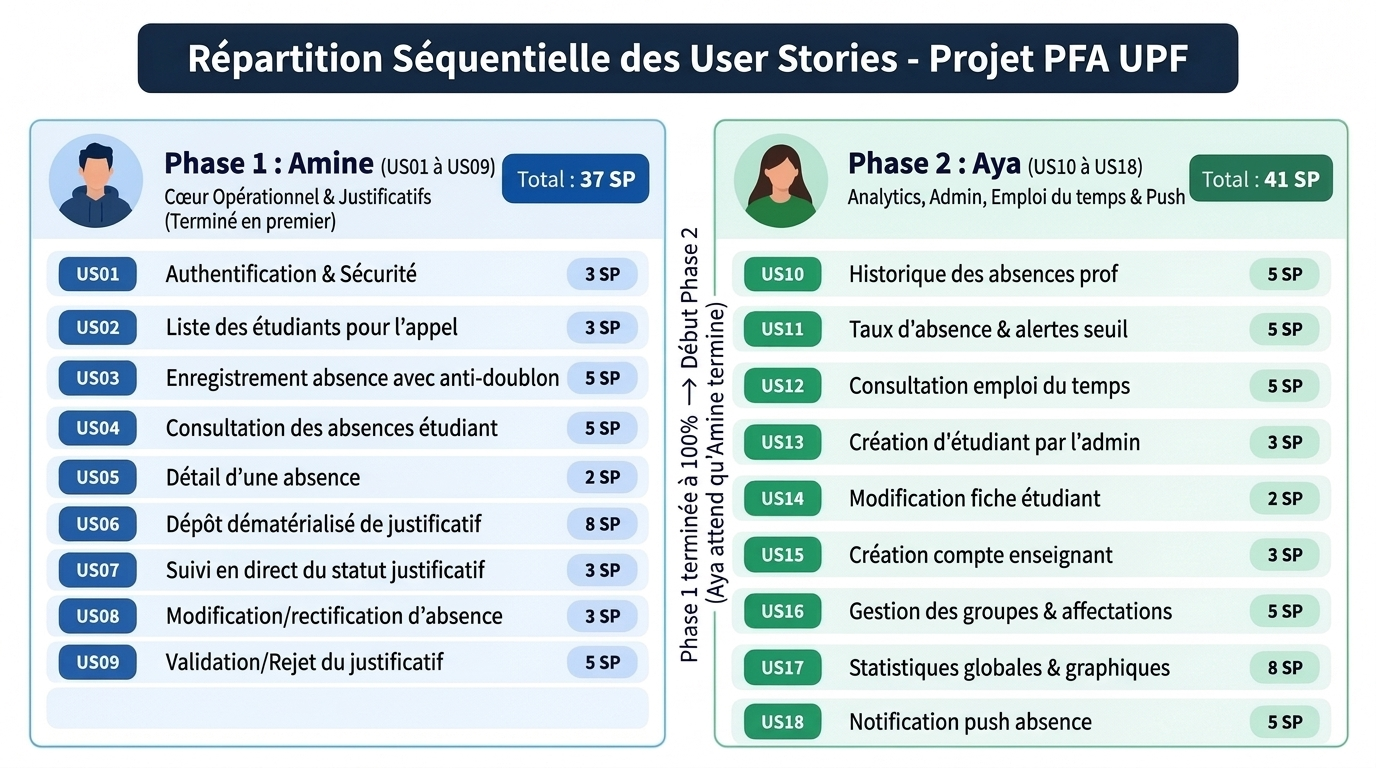
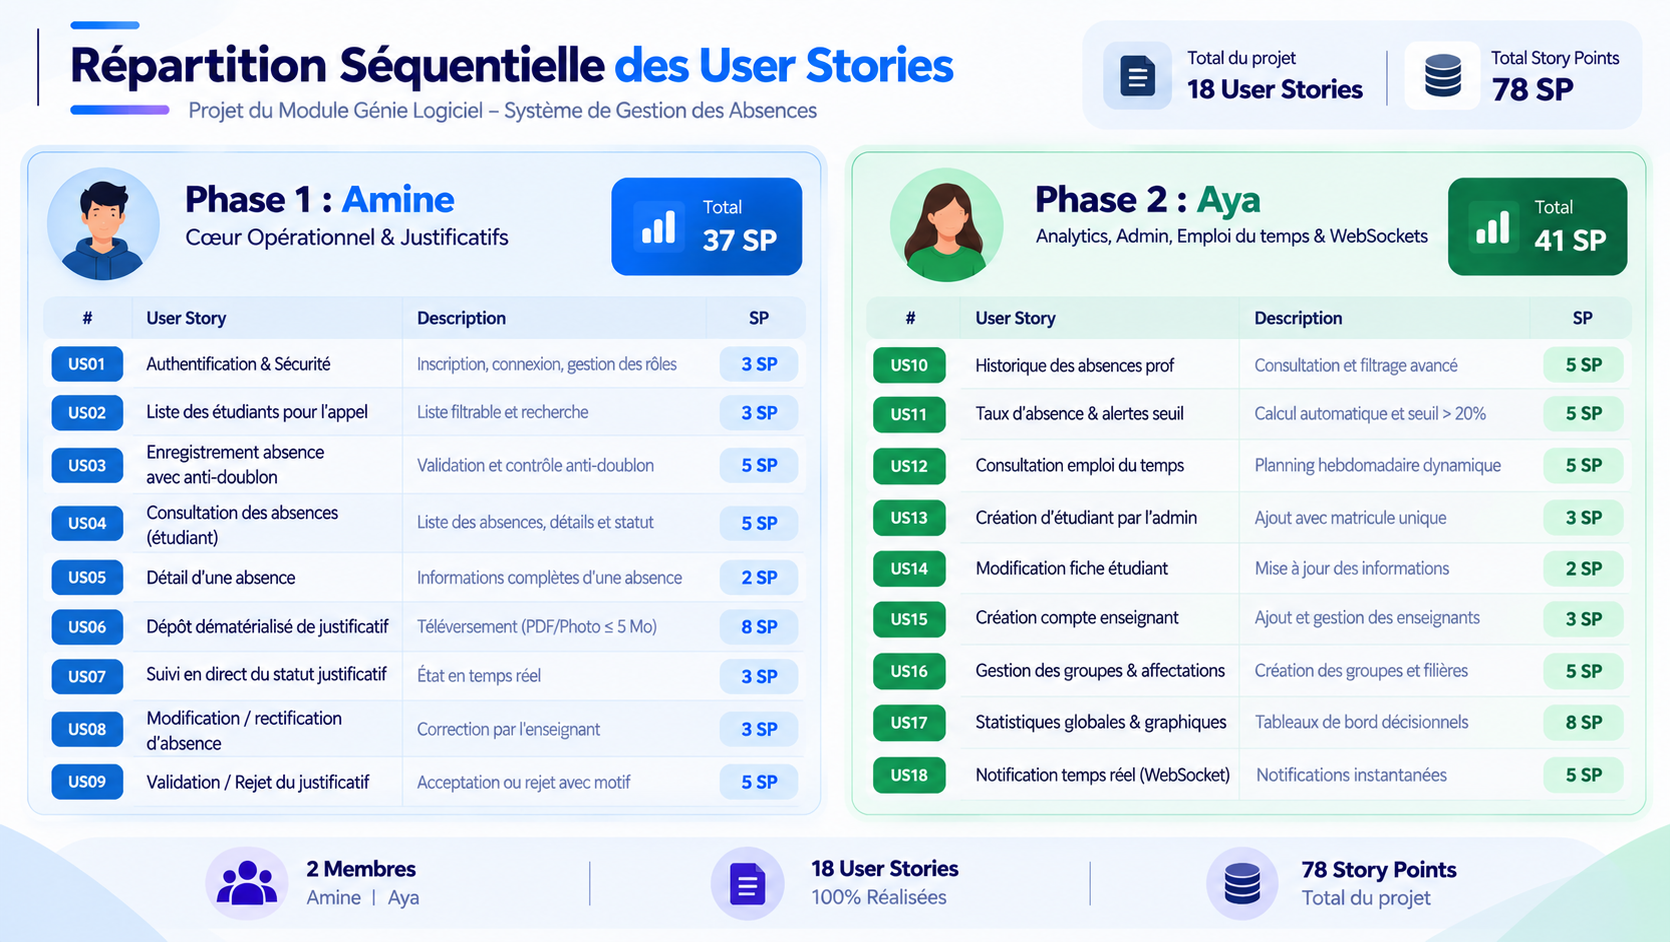
docs: update README with detailed phase breakdowns and key project metrics

diff --git a/README.md b/README.md
@@ -12,32 +12,70 @@
 
 Le projet suit une **méthodologie séquentielle stricte par phase** pour éliminer toute dépendance circulaire :
 
-1. **Partie 1 — Amine NAHLI (US01 à US09 — 37 SP) :**
+1. **Phase 1 — Amine NAHLI (US01 à US09 — 37 SP) :**
    * **Cœur Opérationnel & Justificatifs (Terminé intégralement en premier).**
    * Authentification multi-profils, feuille d'appel enseignant avec blocage anti-doublon, rectification, consultation et détail des absences pour l'étudiant, et cycle complet des justificatifs (dépôt ≤ 5 Mo, suivi en direct, validation/rejet avec motif).
    * Amine livre une application 100% opérationnelle avec des absences et justificatifs réels.
 
-2. **Partie 2 — Aya BOUHSINI (US10 à US18 — 41 SP) :**
-   * **Analytics, Administration Globale, Emploi du temps & Notifications (Démarre après la Partie 1).**
-   * Aya attend la livraison de la Partie 1 pour exploiter directement les données réelles enregistrées : historique des absences prof, calcul automatique du taux d'absentéisme et alertes de seuil, emploi du temps étudiant, administration complète (étudiants, enseignants, filières), tableaux de bord décisionnels BI de la direction et notifications push.
+2. **Phase 2 — Aya BOUHSINI (US10 à US18 — 41 SP) :**
+   * **Analytics, Administration Globale, Emploi du temps & WebSockets (Démarre après la Phase 1).**
+   * Aya attend la livraison de la Phase 1 pour exploiter directement les données réelles enregistrées : historique des absences prof, calcul automatique du taux d'absentéisme et alertes de seuil (> 20%), emploi du temps étudiant, administration complète (étudiants, enseignants, filières), tableaux de bord décisionnels BI de la direction et notifications en temps réel via WebSockets (SockJS / STOMP).
 
 ![Répartition Séquentielle des User Stories](docs/Répartition%20des%20User%20Stories%20Amine%20et%20Aya.png)
+
+> **Indicateurs Clés du Projet :**
+> - 👥 **2 Membres :** Amine NAHLI & Aya BOUHSINI
+> - 📋 **18 User Stories :** 100% Réalisées
+> - ⚡ **78 Story Points :** Total du projet (37 SP Amine + 41 SP Aya)
 
 Consulter la documentation détaillée dans [docs/](docs/) :
 * [**README_AMINE.md**](docs/README_AMINE.md) : Feuille de route d'Amine (US01 à US09).
 * [**README_AYA.md**](docs/README_AYA.md) : Feuille de route d'Aya (US10 à US18).
-* [**REPARTITION_SEQUENTIELLE.md**](docs/REPARTITION_SEQUENTIELLE.md) : Synthèse méthodologique et diagramme de flux séquentiel.
 * [**DATABASE_SCHEMA.md**](docs/DATABASE_SCHEMA.md) : Schéma relationnel complet Neon PostgreSQL (Mermaid ERD).
 
 ---
 
-## Tableau Récapitulatif des 18 User Stories (78 SP)
+## 📋 Répartition Séquentielle des User Stories (78 SP)
 
-| Phase | Responsable | Périmètre | User Stories Assignées | Total SP |
-| :---: | :---: | :--- | :--- | :---: |
-| **Partie 1**<br>*(En premier)* | **Amine NAHLI** | **Cœur Opérationnel & Justificatifs** | **US01** Authentification & Sécurité (3 SP)<br>**US02** Liste des étudiants pour l'appel (3 SP)<br>**US03** Saisie d'absence & anti-doublon (5 SP)<br>**US04** Consultation absences étudiant (5 SP)<br>**US05** Détail d'une absence (2 SP)<br>**US06** Dépôt justificatif dématérialisé (8 SP)<br>**US07** Suivi en direct du justificatif (3 SP)<br>**US08** Modification/rectification absence (3 SP)<br>**US09** Validation / Rejet justificatif (5 SP) | **37 SP** |
-| **Partie 2**<br>*(Après Amine)* | **Aya BOUHSINI** | **Analytics, Admin & Notifications** | **US10** Historique des absences prof (5 SP)<br>**US11** Taux absentéisme & alertes seuil (5 SP)<br>**US12** Consultation emploi du temps (5 SP)<br>**US13** Création étudiant par l'admin (3 SP)<br>**US14** Modification fiche étudiant (2 SP)<br>**US15** Création compte enseignant (3 SP)<br>**US16** Gestion groupes & affectations (5 SP)<br>**US17** Statistiques globales & graphiques BI (8 SP)<br>**US18** Alertes & Notifications temps réel via WebSockets SockJS/STOMP (5 SP) | **41 SP** |
-| **TOTAL** | — | **Couverture Globale du Projet** | **18 User Stories** | **78 SP** |
+### 🔹 Phase 1 : Amine — Cœur Opérationnel & Justificatifs (Total : 37 SP)
+
+| # | User Story | Description | SP |
+| :---: | :--- | :--- | :---: |
+| **US01** | Authentification & Sécurité | Inscription, connexion, gestion des rôles | **3 SP** |
+| **US02** | Liste des étudiants pour l'appel | Liste filtrable et recherche | **3 SP** |
+| **US03** | Enregistrement absence avec anti-doublon | Validation et contrôle anti-doublon | **5 SP** |
+| **US04** | Consultation des absences (étudiant) | Liste des absences, détails et statut | **5 SP** |
+| **US05** | Détail d'une absence | Informations complètes d'une absence | **2 SP** |
+| **US06** | Dépôt dématérialisé de justificatif | Téléversement (PDF/Photo ≤ 5 Mo) | **8 SP** |
+| **US07** | Suivi en direct du statut justificatif | État en temps réel | **3 SP** |
+| **US08** | Modification / rectification d'absence | Correction par l'enseignant | **3 SP** |
+| **US09** | Validation / Rejet du justificatif | Acceptation ou rejet avec motif | **5 SP** |
+
+---
+
+### 🔹 Phase 2 : Aya — Analytics, Admin, Emploi du temps & WebSockets (Total : 41 SP)
+
+| # | User Story | Description | SP |
+| :---: | :--- | :--- | :---: |
+| **US10** | Historique des absences prof | Consultation et filtrage avancé | **5 SP** |
+| **US11** | Taux d'absence & alertes seuil | Calcul automatique et seuil > 20% | **5 SP** |
+| **US12** | Consultation emploi du temps | Planning hebdomadaire dynamique | **5 SP** |
+| **US13** | Création d'étudiant par l'admin | Ajout avec matricule unique | **3 SP** |
+| **US14** | Modification fiche étudiant | Mise à jour des informations | **2 SP** |
+| **US15** | Création compte enseignant | Ajout et gestion des enseignants | **3 SP** |
+| **US16** | Gestion des groupes & affectations | Création des groupes et filières | **5 SP** |
+| **US17** | Statistiques globales & graphiques | Tableaux de bord décisionnels | **8 SP** |
+| **US18** | Notification temps réel (WebSocket) | Notifications instantanées | **5 SP** |
+
+---
+
+### 📊 Synthèse du Projet
+
+| Métrique | Valeur |
+| :--- | :---: |
+| **Équipe de développement** | **2 Membres (Amine \| Aya)** |
+| **Total User Stories livrées** | **18 / 18 (100% Réalisées)** |
+| **Story Points totaux** | **78 SP (37 SP Amine + 41 SP Aya)** |
 
 ---
 
